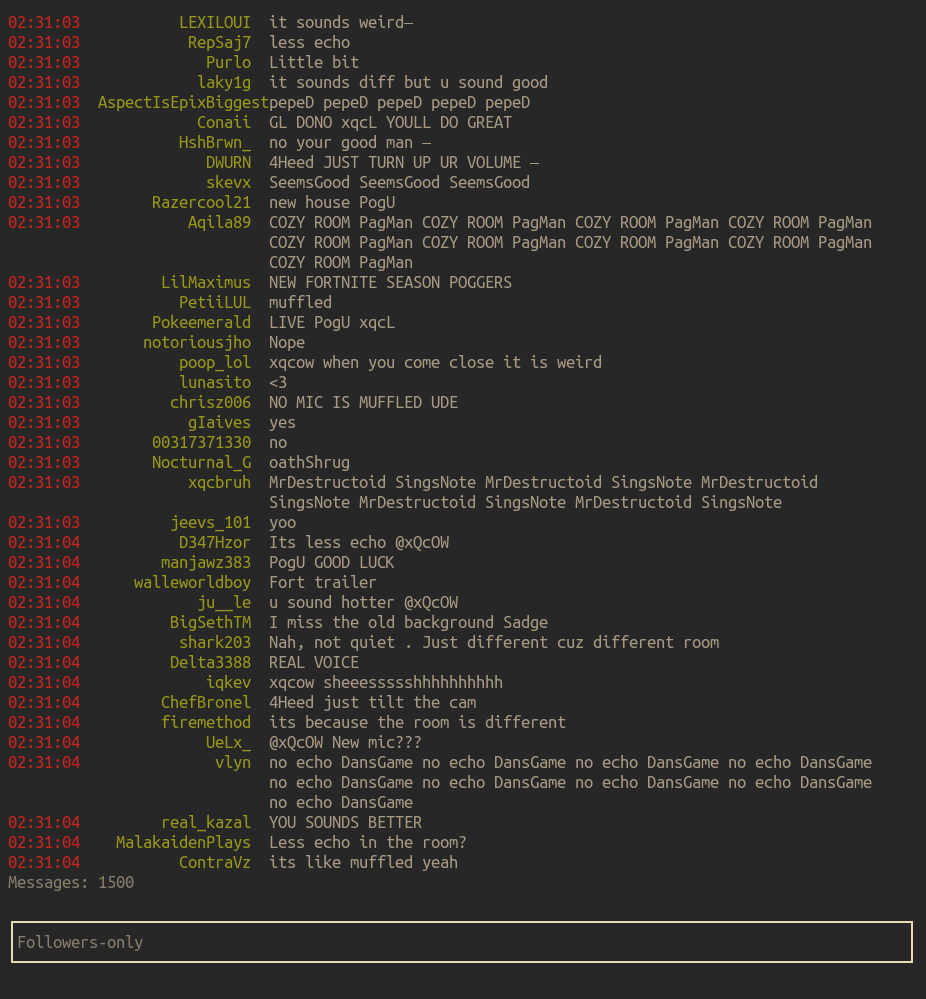
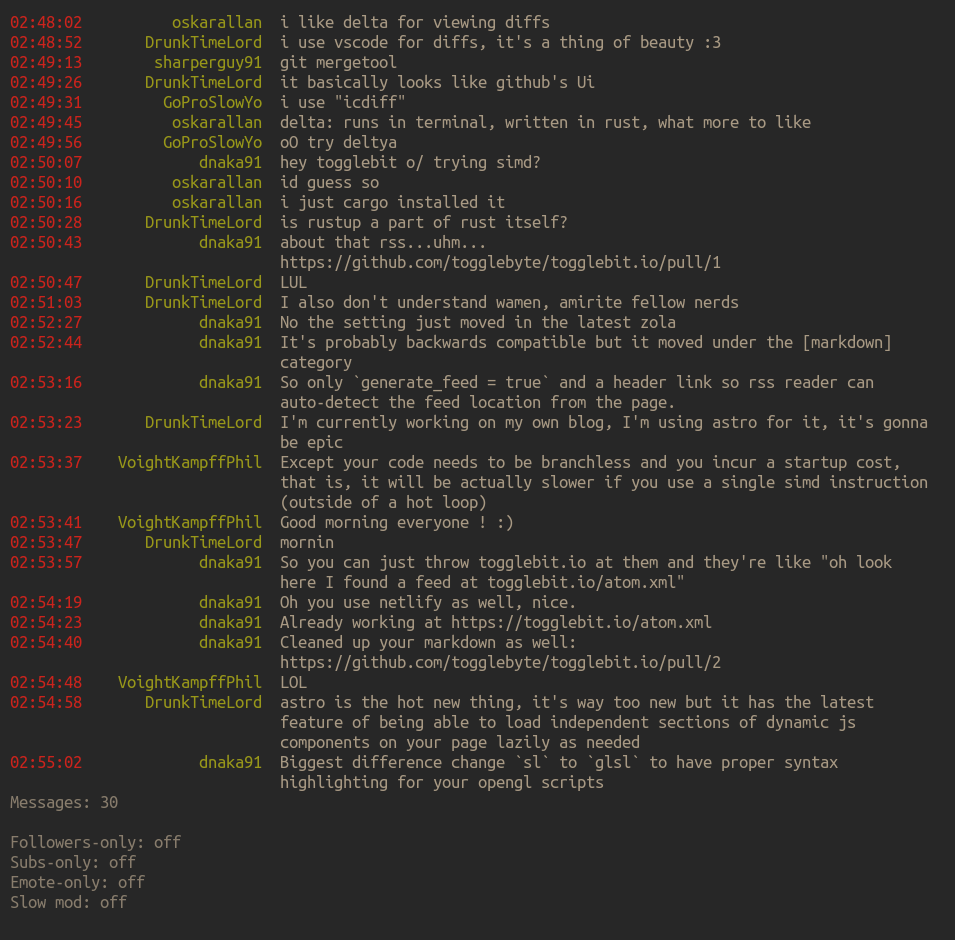
Update interface

diff --git a/src/components/MessagesList.tsx b/src/components/MessagesList.tsx
@@ -22,6 +22,7 @@ interface Props {
 const MessagesList: FunctionComponent<Props> = ({ client, config }) => {
   const [messages, setMessages] = useState<Array<Message>>([]);
   const [compact, setCompact] = useState(process.stdout.columns < 90 ? true : false);
+  const [countOfMessages, setCountOfMessages] = useState(0);
 
   const moderatorIconColor = config.moderatorIconColor || "#ffffff";
 
@@ -32,8 +33,24 @@ const MessagesList: FunctionComponent<Props> = ({ client, config }) => {
       process.stdout.columns < 90 ? setCompact(true) : setCompact(false);
     });
 
+    const emptyLines: Message[] = [];
+
+    for (let i = 0; i < process.stdout.rows - 8; i++) {
+      emptyLines.push({
+        id: `${i}-empty`,
+        time: '',
+        name: '',
+        mod: false,
+        mess: ' ',
+      });
+    }
+
+    setMessages(emptyLines);
+
     client.on("message", (channel, userstate, message) => {
       const time = dayjs().format("hh:mm:ss");
+
+      setCountOfMessages(prevState => prevState + 1)
 
       setMessages((prevState): Message[] => {
         return [
@@ -60,7 +77,7 @@ const MessagesList: FunctionComponent<Props> = ({ client, config }) => {
                 width={process.stdout.columns}
                 paddingLeft={1}
                 paddingRight={1}
-                borderStyle="classic"
+                borderStyle={message.time === '' ? undefined : 'round'}
                 key={message.id}
                 flexDirection="column"
               >
@@ -70,9 +87,8 @@ const MessagesList: FunctionComponent<Props> = ({ client, config }) => {
                   </Box>
                   <Box justifyContent="flex-end">
                     <Text color={config.colors.nickname} wrap="truncate">
-                      {`${message.mod ? chalk.hex(moderatorIconColor)(`${config.moderatorIcon}`) : ""} ${
-                        message.name
-                      } `}
+                      {`${message.mod ? chalk.hex(moderatorIconColor)(`${config.moderatorIcon}`) : ""} ${message.name
+                        } `}
                     </Text>
                   </Box>
                 </Box>
@@ -100,7 +116,7 @@ const MessagesList: FunctionComponent<Props> = ({ client, config }) => {
           }
         }}
       </Static>
-      <CountOfMessages count={messages.length} />
+      <CountOfMessages count={countOfMessages} />
     </>
   );
 };

diff --git a/src/components/RoomState.tsx b/src/components/RoomState.tsx
@@ -7,7 +7,6 @@ interface Props {
 }
 
 const RoomState: FunctionComponent<Props> = ({ client }) => {
-  const [show, setShow] = useState(false);
   const [followersOnly, setFollowersOnly] = useState(false);
   const [subsOnly, setSubsOnly] = useState(false);
   const [emoteOnly, setEmoteOnly] = useState(false);
@@ -20,59 +19,39 @@ const RoomState: FunctionComponent<Props> = ({ client }) => {
       const emoteOnlyStatus = Number(state["emote-only"]);
       const slowModStatus = Number(state["slow"]);
 
-      let showStatus = false;
-
       if (followersOnlyStatus >= 0) {
         setFollowersOnly(true);
-        showStatus = true;
       }
 
       if (subsOnlyStatus > 0) {
         setSubsOnly(true);
-        showStatus = true;
       }
 
       if (emoteOnlyStatus > 0) {
         setEmoteOnly(true);
-        showStatus = true;
       }
 
       if (slowModStatus) {
         setSlowMod(true);
-        showStatus = true;
       }
-
-      setShow(showStatus);
     });
   }, []);
 
   return (
-    <>
-      {show && (
-        <Box borderStyle="single" marginTop={1} flexDirection="column">
-          {followersOnly && (
-            <Text dimColor color="white">
-              Followers-only
-            </Text>
-          )}
-          {subsOnly && (
-            <Text dimColor color="white">
-              Subs-only
-            </Text>
-          )}
-          {emoteOnly && (
-            <Text dimColor color="white">
-              Emote-only
-            </Text>
-          )}
-          {slowMod && (
-            <Text dimColor color="white">
-              Slow mod
-            </Text>
-          )}
-        </Box>
-      )}
-    </>
+    <Box marginTop={1} flexDirection="column">
+      <Text dimColor color={`${followersOnly ? "green" : "white"}`}>
+        Followers-only: {followersOnly ? "on" : "off"}
+      </Text>
+      <Text dimColor color={`${subsOnly ? "green" : "white"}`}>
+        Subs-only: {subsOnly ? "on" : "off"}
+      </Text>
+      <Text dimColor color={`${emoteOnly ? "green" : "white"}`}>
+        Emote-only: {emoteOnly ? "on" : "off"}
+      </Text>
+      <Text dimColor color={`${slowMod ? "green" : "white"}`}>
+        Slow mod: {slowMod ? "on" : "off"}
+      </Text>
+    </Box>
   );
 };
 
